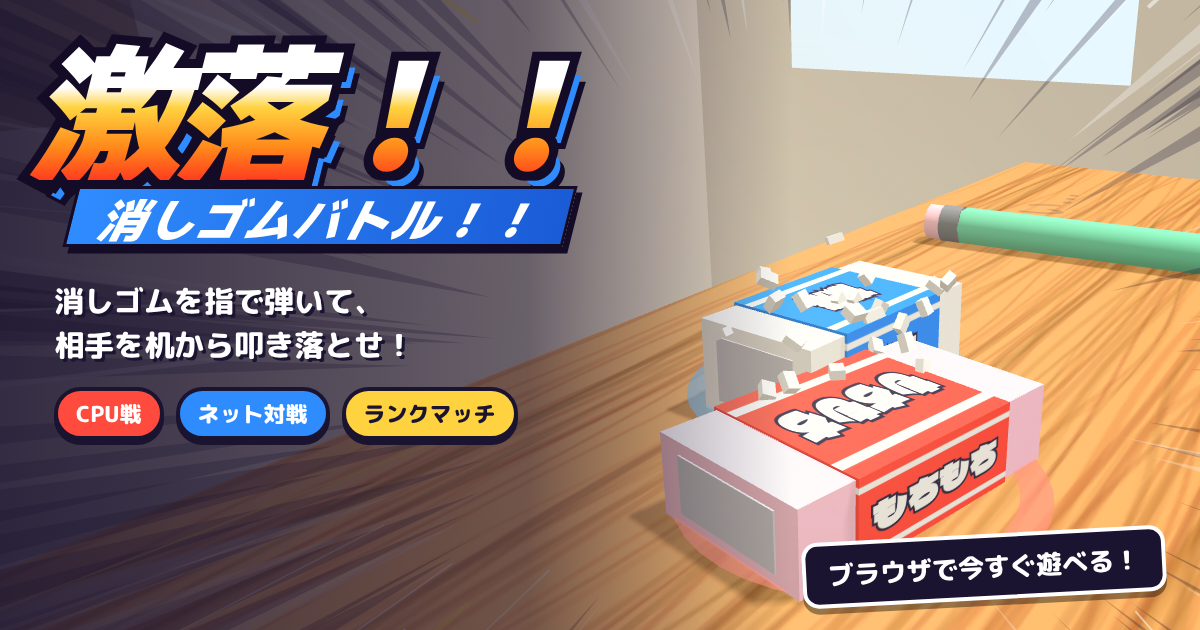
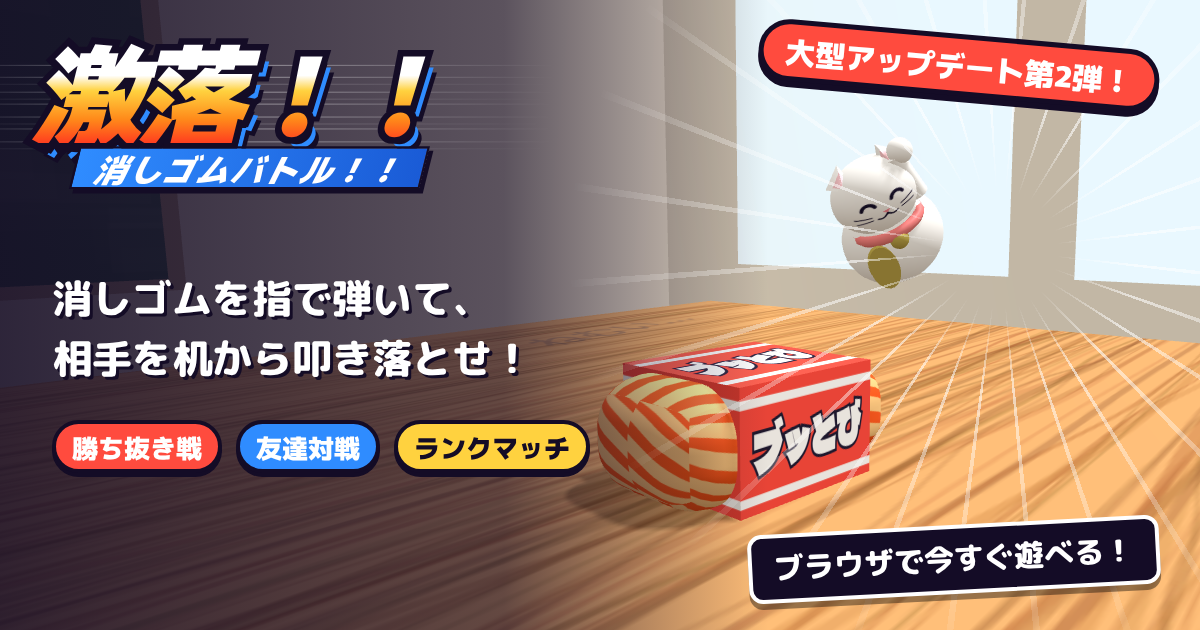
激落: リンクカード画像を ogp.png に統一（古い画像を削除）
Claude-Session: https://claude.ai/code/session_018Q5ScN2wSFJaZ5e2oBonXp

diff --git a/gekiochi/index.html b/gekiochi/index.html
@@ -9,11 +9,11 @@
 <meta property="og:description" content="消しゴムを指で弾いて、相手を机から叩き落とせ！">
 <meta property="og:type" content="website">
 <meta property="og:url" content="https://zirihinit.github.io/gekiochi/">
-<meta property="og:image" content="https://zirihinit.github.io/gekiochi/ogp2.png">
+<meta property="og:image" content="https://zirihinit.github.io/gekiochi/ogp.png?v=2">
 <meta property="og:image:width" content="1200">
 <meta property="og:image:height" content="630">
 <meta name="twitter:card" content="summary_large_image">
-<meta name="twitter:image" content="https://zirihinit.github.io/gekiochi/ogp2.png">
+<meta name="twitter:image" content="https://zirihinit.github.io/gekiochi/ogp.png?v=2">
 <link rel="preconnect" href="https://fonts.googleapis.com">
 <link href="https://fonts.googleapis.com/css2?family=Yuji+Syuku&text=%E7%8E%8B%E5%B0%86&display=swap" rel="stylesheet">
 <link href="https://fonts.googleapis.com/css2?family=Dela+Gothic+One&family=M+PLUS+Rounded+1c:wght@500;800&family=Murecho:wght@900&display=swap" rel="stylesheet">
